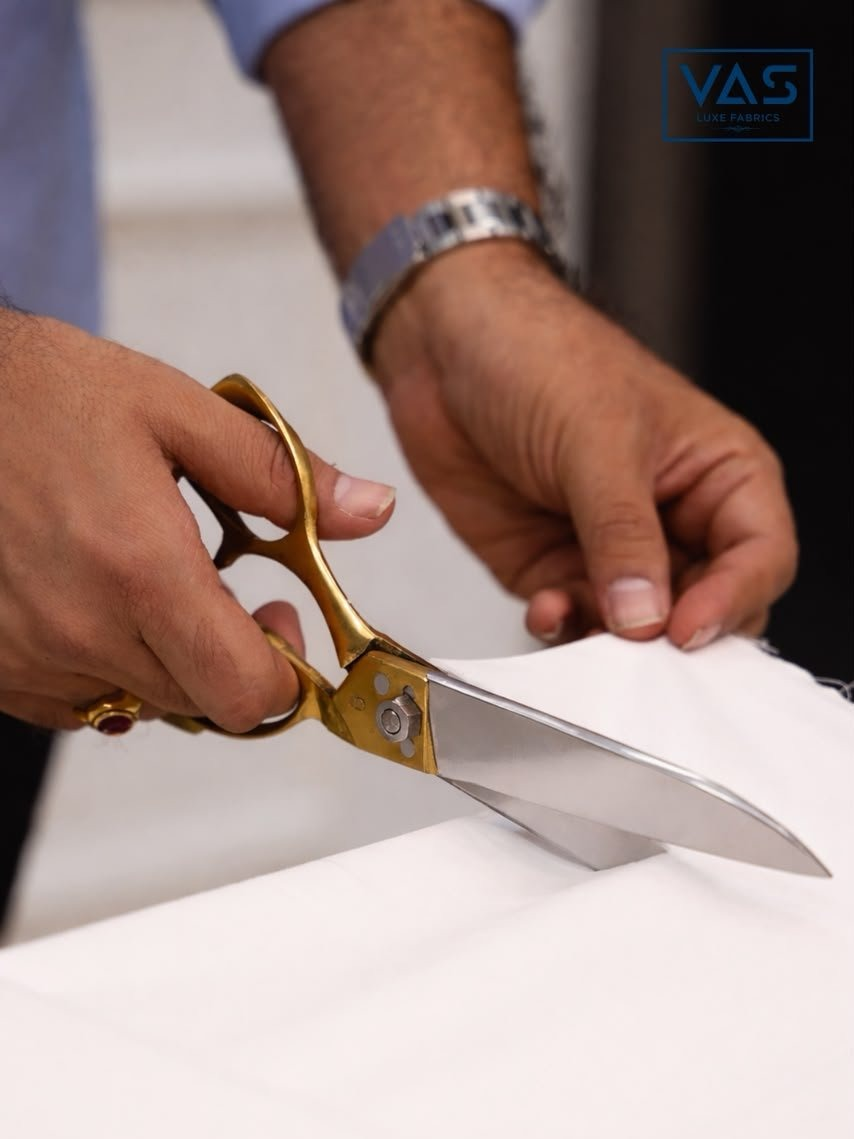
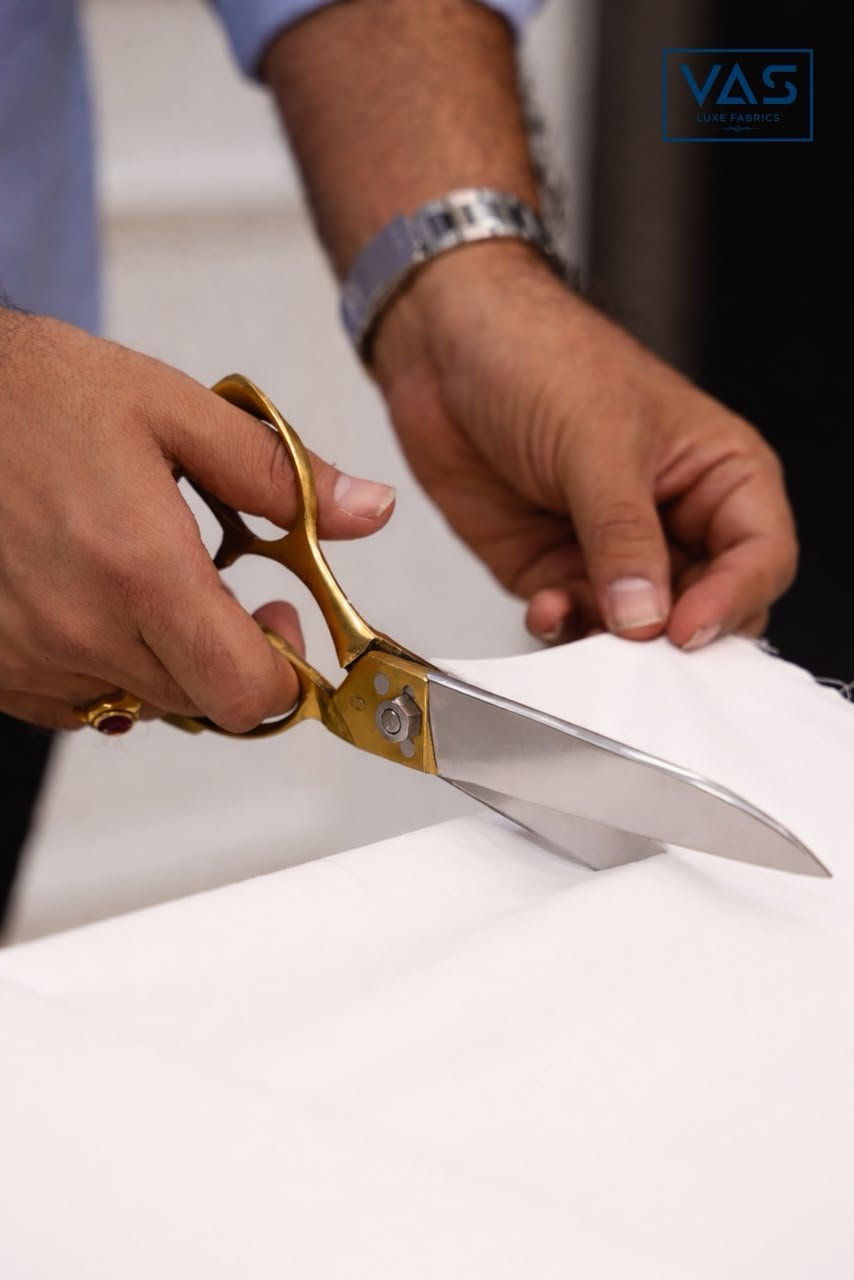
fix: crop the watch out of the hero fabric-swatches photo
The "watch" complaint was about hero.denim-drape (fashion-poly-hand-
swatches.jpg), not hero.model-jacket — reverted the unnecessary crop
made to the latter in the previous commit. The actual photo's content
of interest (fabric swatches, hand) sits in the lower two-thirds; the
watch/wrist dominates the top third, which is exactly what a top-right
anchored crop into its 3:4 box was keeping. Cropped a new 3:4 region
from lower in the frame instead, excluding the watch entirely.

diff --git a/src/assets/registry.ts b/src/assets/registry.ts
@@ -43,7 +43,7 @@ export const assets = {
   // in one frame, and the collage read as a grab bag rather than a set.
   'hero.linen-sheet': R('/photos/lyocell-pastel-fold-crop.jpg', 16 / 9, ''),
   'hero.yarn-cone': R('/photos/filler-shears-brown.jpg', 3 / 4, 'Brass tailor shears resting on folded VAS shirting fabric'),
-  'hero.denim-drape': R('/photos/fashion-poly-hand-swatches.jpg', 3 / 4, 'A hand arranging printed fashion polyester swatches in dusty pink, blue and grey'),
+  'hero.denim-drape': R('/photos/filler-fabric-swatches-hand.jpg', 3 / 4, 'A hand arranging printed fashion polyester swatches in dusty pink, blue and grey'),
   'hero.shirts-rail': R('/photos/cotton-hanger-tonal.jpg', 4 / 3, 'Four fabric lengths tied to a hanger in a tonal gradient'),
   'hero.model-jacket': R('/photos/filler-hands-cutting.jpg', 3 / 4, 'Hands cutting VAS shirting fabric with tailor shears'),
   'hero.folded-stack': R('/photos/polyester-cotton-stack.jpg', 3 / 4, 'Folded VAS shirting fabrics beside raw cotton bolls'),
